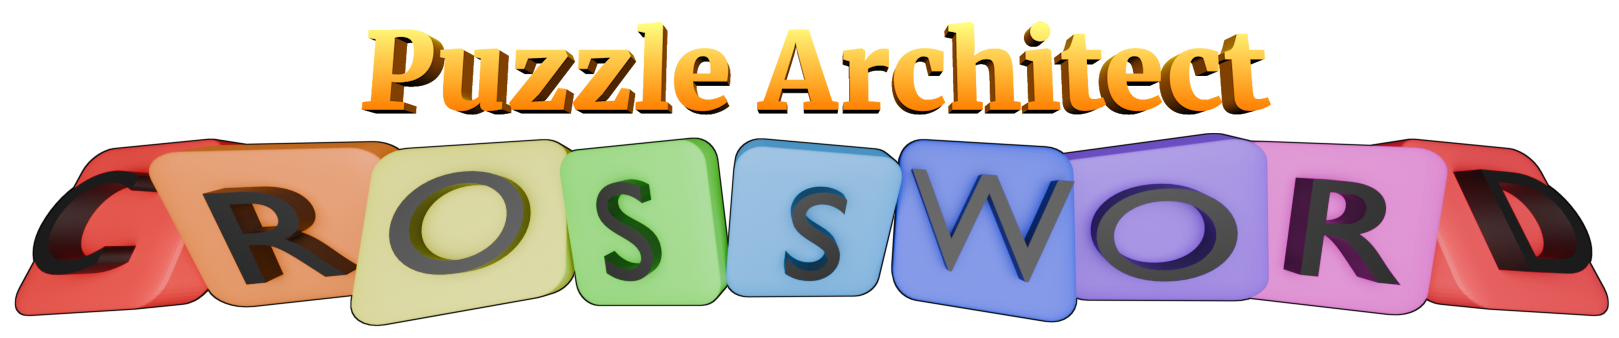
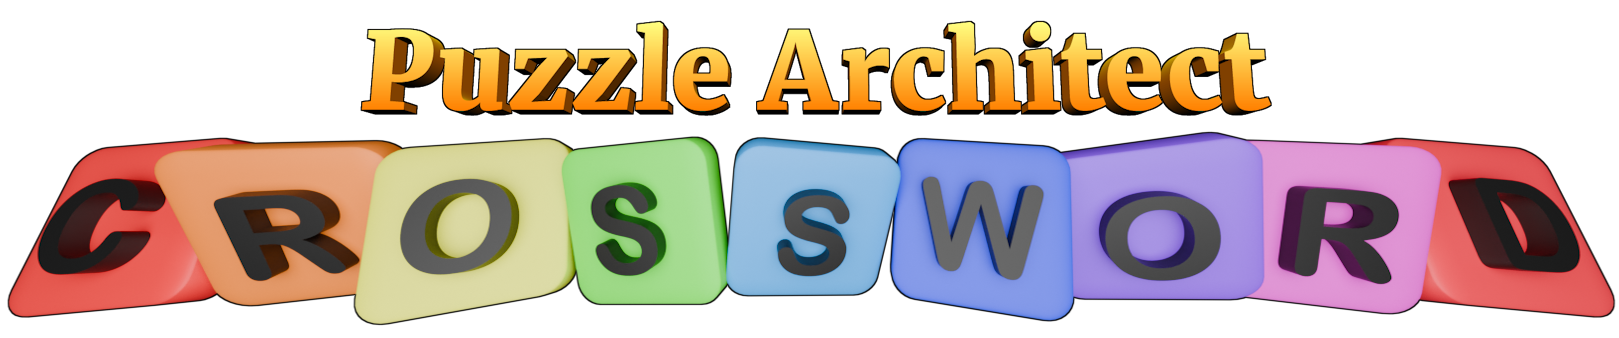
Yay!

diff --git a/projects/projects/crosswordmaker/title.css b/projects/projects/crosswordmaker/title.css
@@ -1,7 +1,7 @@
 html, body {
     margin: 0;
     padding: 0;
-    background-image: url(tileBackground.png);
+    background-size: cover;
 }
 
 #content {
@@ -11,28 +11,37 @@ html, body {
     align-items: center;
     width: 100vw;
     height: 100vh;
+    background-image: url(3dGridBg.png);
+    animation: fadeup 1s 0s ease forwards normal;
 }
 
 #logo {
     position: absolute;
     top: 5vh;
     width: 50%;
-    filter: drop-shadow(4px 4px 4px black);
+    filter: drop-shadow(16px 16px 4px rgba(0, 0, 0, 0.5));
+    animation: zoomin 0.5s 0s ease forwards normal;
 }
 
 #mode-play {
     background: linear-gradient(180deg,rgba(245, 165, 159, 1) 0%, rgba(228, 88, 79, 1) 100%);
     border-color: rgb(173, 67, 59);
+    transform: scale(0);
+    animation: bouncein 0.5s 0.6s ease forwards normal;
 }
 
 #mode-create {
     background: linear-gradient(180deg,rgb(151, 241, 151) 0%, rgb(72, 233, 67) 100%);
     border-color: rgb(72, 173, 59);
+    transform: scale(0);
+    animation: bouncein 0.5s 0.8s ease forwards normal;
 }
 
 #mode-share {
     background: linear-gradient(180deg,rgb(159, 172, 245) 0%, rgb(79, 114, 228) 100%);
     border-color: rgb(59, 70, 173);
+    transform: scale(0);
+    animation: bouncein 0.5s 1s ease forwards normal;
 }
 
 .menu-button {
@@ -45,13 +54,55 @@ html, body {
     margin: 0.5%;
     border-style: solid;
     user-select: none;
+    filter: drop-shadow(16px 16px 4px rgba(0, 0, 0, 0.5));
 }
 
 .menu-button:hover {
-    filter: brightness(1.1);
+    filter: brightness(1.1) drop-shadow(16px 16px 4px rgba(0, 0, 0, 0.5));
 }
 
 .menu-button:active {
     border-width: 4px 2px 2px 2px;
-    filter: brightness(0.9);
+    filter: brightness(0.9) drop-shadow(16px 16px 4px rgba(0, 0, 0, 0.5));
+}
+
+@keyframes fadeup {
+    0% {
+        opacity: 0;
+    }
+    100% {
+        opacity: 1;
+    }
+}
+
+@keyframes zoomin {
+    0% {
+        transform: scale(5) translateY(-100%);
+        opacity: 0;
+    }
+    100% {
+        transform: scale(1);
+        opacity: 1;
+    }
+}
+
+@keyframes bouncein {
+    0% {
+        transform: scale(0);
+    }
+    20% {
+        transform: scale(1.3);
+    }
+    40% {
+        transform: scale(0.825);
+    }
+    60% {
+        transform: scale(1.15);
+    }
+    80% {
+        transform: scale(0.975);
+    }
+    100% {
+        transform: scale(1);
+    }
 }

diff --git a/Projects/projects/crosswordmaker/index.html b/Projects/projects/crosswordmaker/index.html
@@ -11,9 +11,9 @@
 <body>
     <div id="content">
         <img id="logo" src="puzzleArchitect_Crossword.png">
-        <!-- <button id="mode-play" class="menu-button">Play</button> -->
+        <button id="mode-play" class="menu-button">Play</button>
         <button id="mode-create" class="menu-button">Create</button>
-        <!-- <button id="mode-share" class="menu-button">Share</button> -->
+        <button id="mode-share" class="menu-button">Share</button>
     </div>
 </body>
 </html>

diff --git a/projects/projects/crosswordmaker/index.html b/projects/projects/crosswordmaker/index.html
@@ -11,9 +11,9 @@
 <body>
     <div id="content">
         <img id="logo" src="puzzleArchitect_Crossword.png">
-        <!-- <button id="mode-play" class="menu-button">Play</button> -->
+        <button id="mode-play" class="menu-button">Play</button>
         <button id="mode-create" class="menu-button">Create</button>
-        <!-- <button id="mode-share" class="menu-button">Share</button> -->
+        <button id="mode-share" class="menu-button">Share</button>
     </div>
 </body>
 </html>
